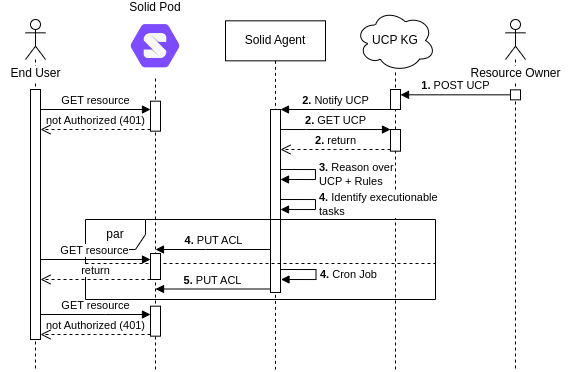
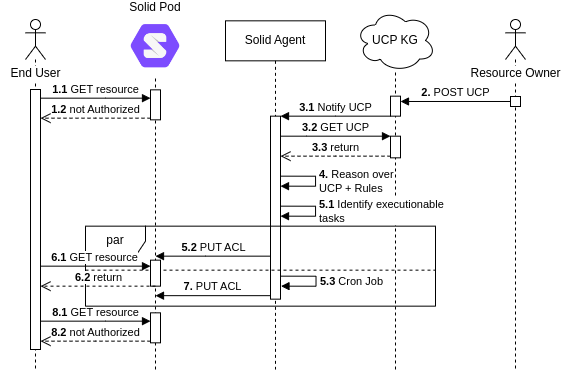
docs: add chronological numbering and refer in 'How does it work?'

diff --git a/documentation/ucp/README.md b/documentation/ucp/README.md
@@ -119,18 +119,20 @@ Finally, when 30 seconds have passed, the **DemoUCPAgent** executes the final pa
 
 In this section, I will try to explain in a bit more detail what happens internally in the [DemoUCPAgent.ts](../../src/demo/DemoUCPAgent.ts).
 
-1. The policy has been added to the **UCP Knowledge Graph** (i.e. the policy container) by the **Resource Owner**
+1. The **End User** fetches the resource sends an authenticated HTTP GET request to the `resource` (1.1), but is not authorized to access the resource so a HTTP Response with status code 401 is returned (1.2).
+2. The policy has been added to the **UCP Knowledge Graph** (i.e. the policy container) by the **Resource Owner**
     * In the demo, this is done by executing step 3.
-2. A notification is sent to the **Solid Agent**, which then fetches the newly added policy (`policy1`)
-3. In the **Solid Agent**, an N3 reasoner (EyeJs) is run with as input the policy and the rules (which is in the `CronRule.n3` in this case)
-4. As a conclusion of this reasoning task, we get two Koreografeye Policies. An Acl Policy and a CronJob Policy (with as function to fire an Acl Policy). 
-    * The ACL Plugin changes the acl of `resource` so that the **End User** (`odrl:assignee`) now has `acl:Read` access to `resource`.
+3. A notification is sent to the **Solid Agent** (3.1), which then fetches the newly added policy (`policy1`) (3.2 & 3.3).
+4. In the **Solid Agent**, an N3 reasoner (EyeJs) is run with as input the policy and the rules (which is in the `CronRule.n3` in this case).
+5. As a conclusion of this reasoning task, we get two Koreografeye Policies. An Acl Policy and a CronJob Policy (with as function to fire an Acl Policy).
+    * The ACL Plugin changes the acl of `resource` so that the **End User** (`odrl:assignee`) now has `acl:Read` access to `resource` (5.2).
         * At this point, the **End User** has access to the `resource`
-    * The Cronjob Plugin starts a timer so that in 30 seconds a prohibition ACL plugin is executed
-5. After the 30 seconds have passed, the CronJob starts the prohibition execution
+    * The Cronjob Plugin starts a timer so that in 30 seconds a prohibition ACL plugin is executed (5.3)
+6. The **End User** fetches the resource sends an authenticated HTTP GET request to the `resource` (6.1), now the contents of the resource are returned (6.2).
+7. After the 30 seconds have passed, the CronJob starts the prohibition execution
     * The Acl Plugin changes the acl of `resource` so that the **End User** now has no access anymore to `resource`.
         * Now, the **End User** does not have access to the `resource` anymore
-
+8. The **End User** fetches the resource sends an authenticated HTTP GET request to the `resource` (8.1), but is not authorized to access the resource so a HTTP Response with status code 401 is returned (8.2).
 These steps are also visualised in the following UML sequence diagram:
 ![](./Solid-agent-UCP%20use%20case%20(high%20level%20UML).png)  
 
